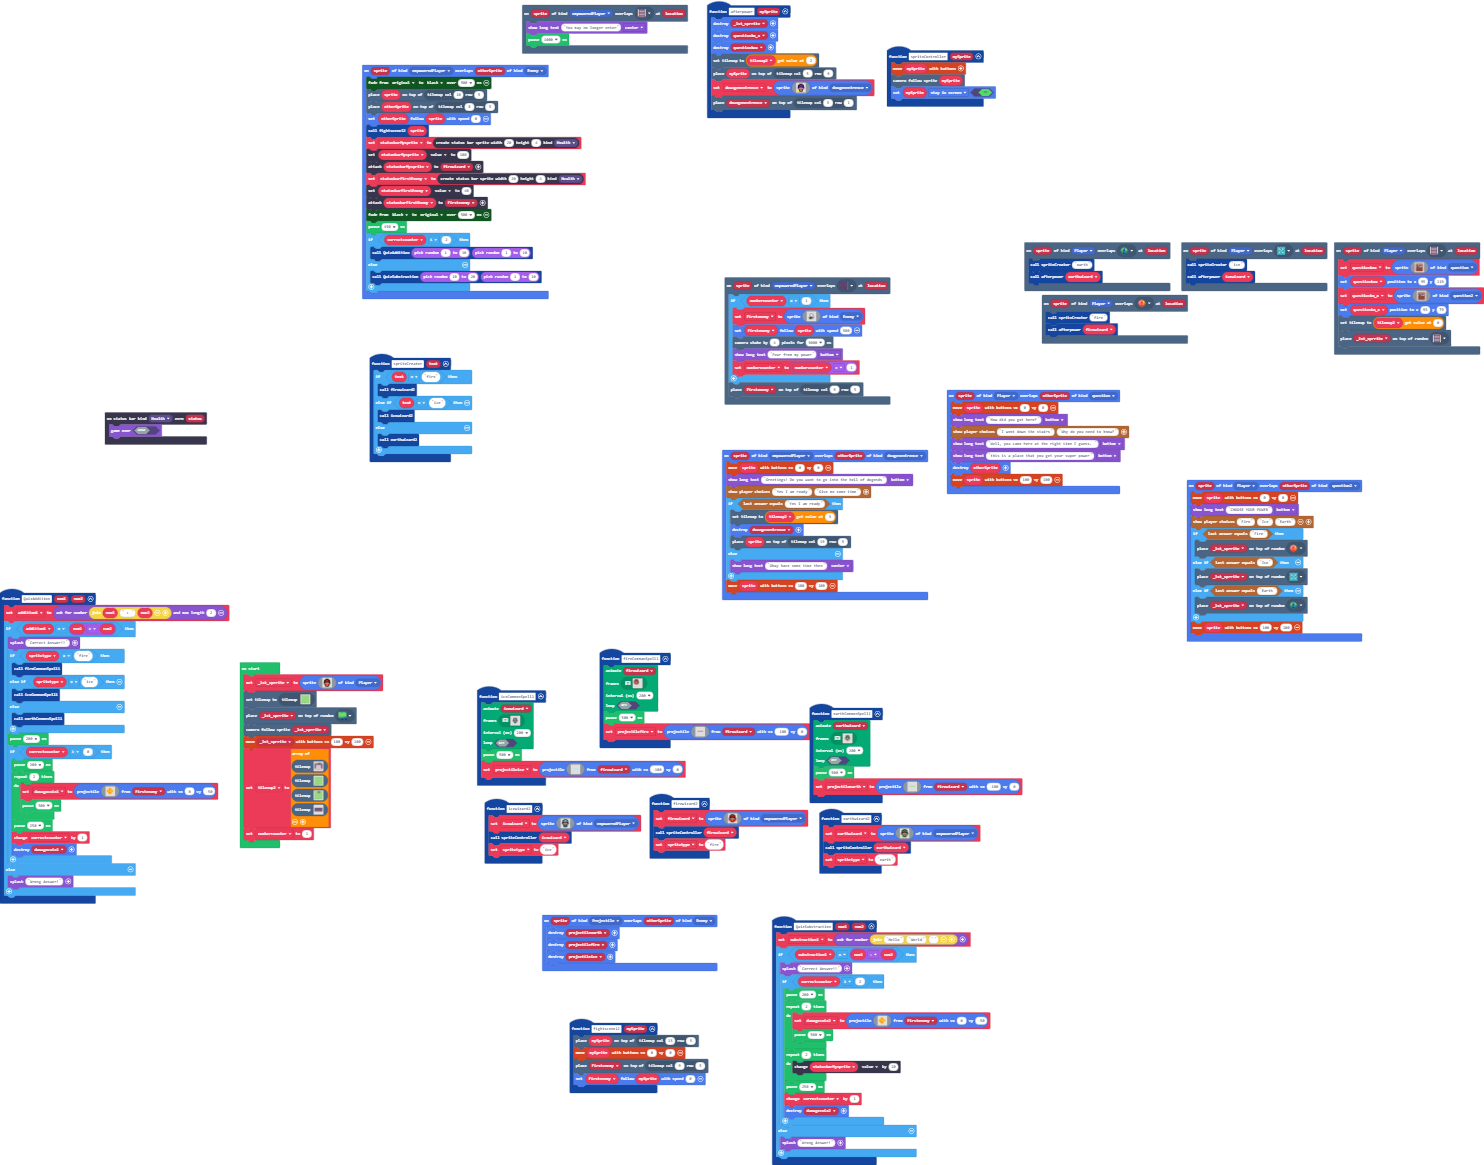
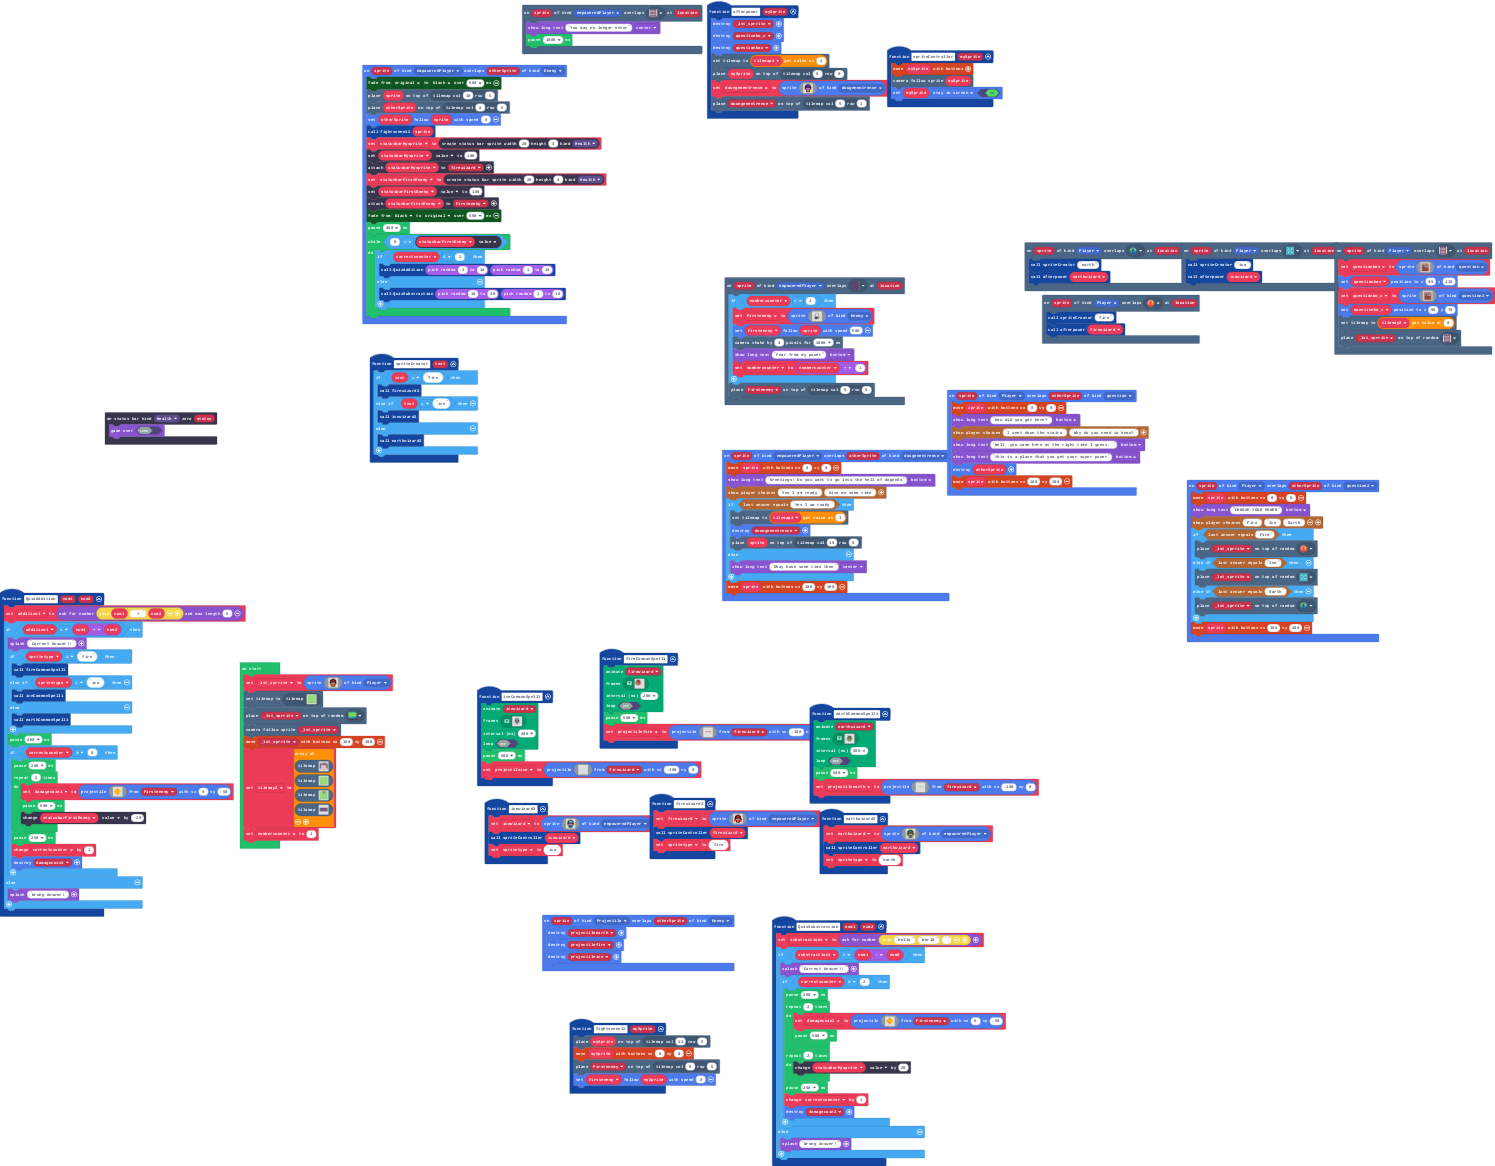
Update main.blocks, main.ts

diff --git a/main.ts b/main.ts
@@ -160,14 +160,16 @@ sprites.onOverlap(SpriteKind.empoweredPlayer, SpriteKind.Enemy, function (sprite
     statusbarMysprite.value = 100
     statusbarMysprite.attachToSprite(firewizard)
     statusbarFirstEnemy = statusbars.create(20, 4, StatusBarKind.Health)
-    statusbarFirstEnemy.value = 40
+    statusbarFirstEnemy.value = 100
     statusbarFirstEnemy.attachToSprite(Firstenemy)
     color.startFade(color.Black, color.originalPalette, 500)
     pause(450)
-    if (correctcounter <= 2) {
-        QuizAddition(randint(1, 10), randint(1, 10))
-    } else {
-        QuizSubstraction(randint(10, 20), randint(1, 10))
+    while (0 < statusbarFirstEnemy.value) {
+        if (correctcounter <= 2) {
+            QuizAddition(randint(1, 10), randint(1, 10))
+        } else {
+            QuizSubstraction(randint(10, 20), randint(1, 10))
+        }
     }
 })
 scene.onOverlapTile(SpriteKind.Player, sprites.dungeon.collectibleBlueCrystal, function (sprite, location) {
@@ -450,6 +452,7 @@ function QuizAddition (num1: number, num2: number) {
                     . . . . . . . . . . . . . . . . 
                     `, Firstenemy, 0, -50)
                 pause(500)
+                statusbarFirstEnemy.value += -20
             }
             pause(250)
             correctcounter += 1
